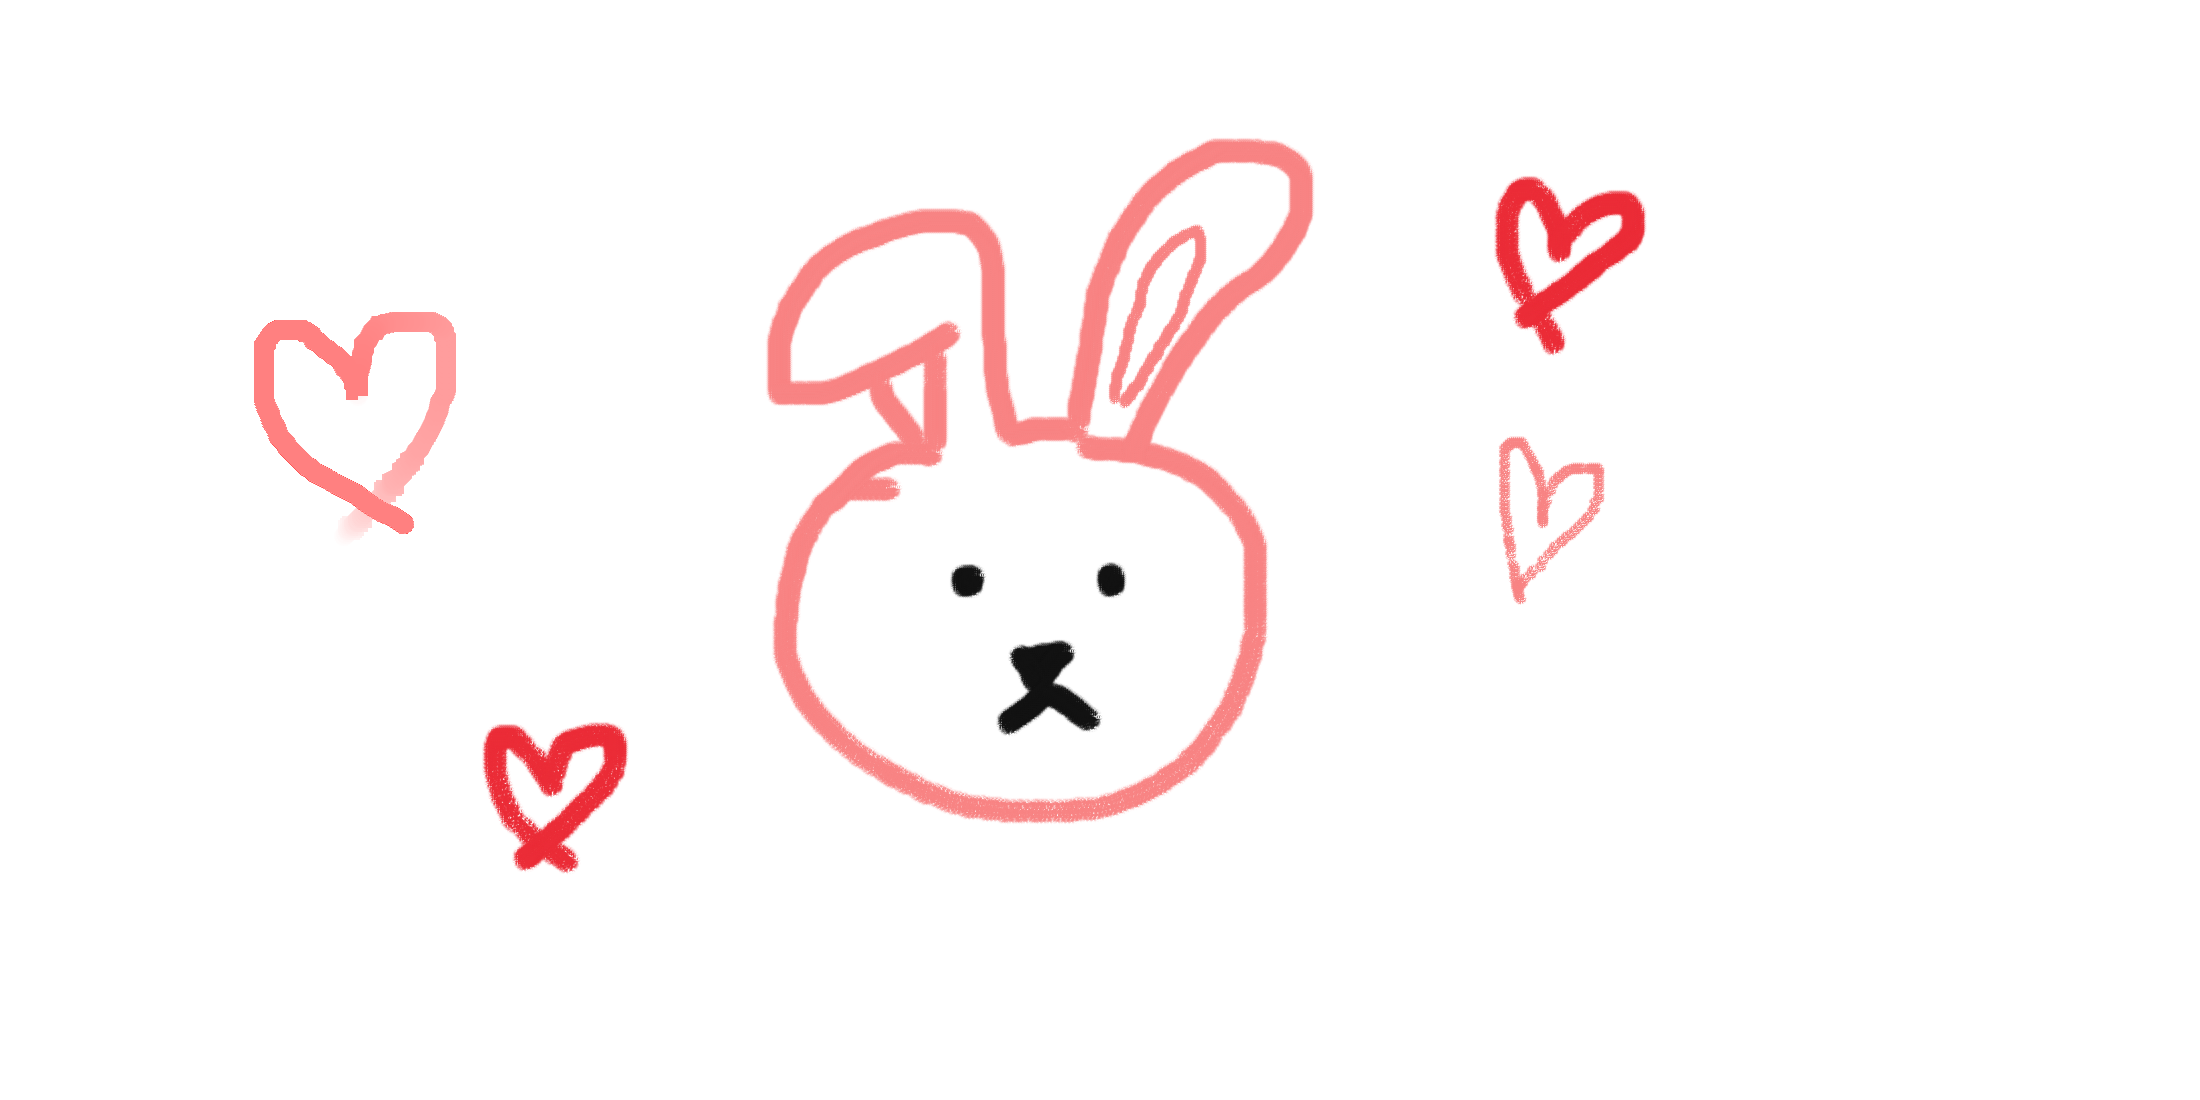
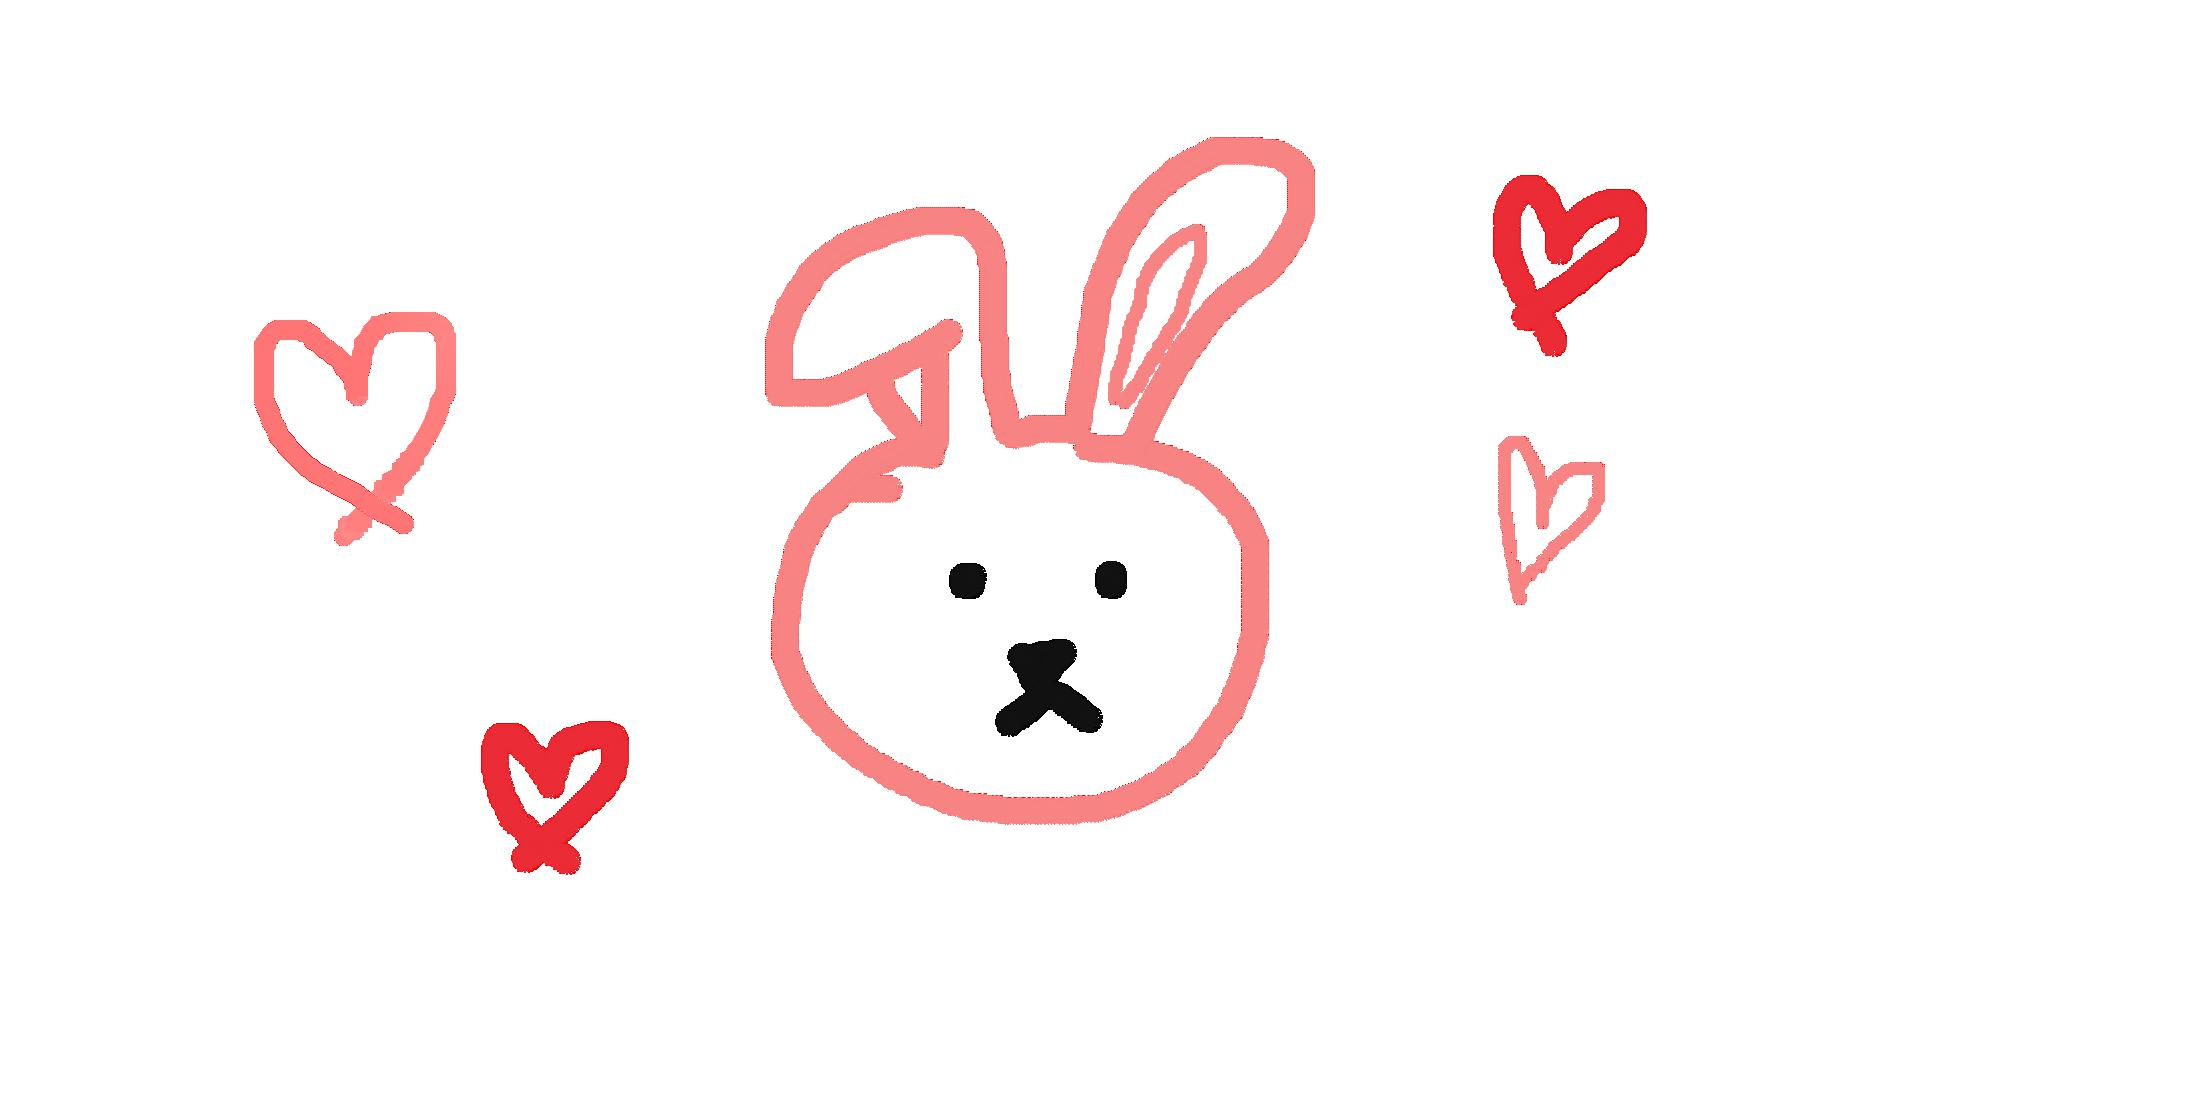
[S07P22D203-518|AI] response 이미지 배경변경
Former-commit-id: 92ce42c1fb31b6f8c173a87386176a0734ea1602 [formerly 9a2d7cd93cb60b348e8e22acebd8fd8d2026c42c]
Former-commit-id: 7134585f51c123df21668a9c18377859b570da78

diff --git a/AI/detection/server.py b/AI/detection/server.py
@@ -29,8 +29,18 @@ def from_image_to_bytes(img):
 @app.post("/tag")
 async def upload_photo(file: UploadFile):
     contents = await file.read()
-    with open("temp.jpg", "wb") as fp:
+    with open("temp.png", "wb") as fp:
         fp.write(contents)
+    im = Image.open('./temp.png')
+    x, y = im.size
+    px = im.load()
+
+    for i in range(0, x):
+        for j in range(0, y):
+            if px[i, j][-1] == 0:
+                px[i, j] = (255, 255, 255, 255)
+    im = im.convert('RGB')
+    im.save('temp.jpg')
     result = test.faster_rcnn("temp.jpg")
 
     return result

diff --git a/AI/detection/test.py b/AI/detection/test.py
@@ -25,9 +25,8 @@ def faster_rcnn(image):
     model.to(device)
     saved_checkpoint = torch.load("Epoch33.pth", map_location=device)
     model.load_state_dict(saved_checkpoint, strict=False)  # 훈련파일
-    # image_path = "/home/jupyter-j7d203/drawing_dataset/97511345-행복한-가족의-어린이-사진-벡터-일러스트-레이-션.jpg"
 
-    test_image = Image.open(image).convert("RGB")
+    test_image = Image.open(image)
     test_image = np.array(test_image)
 
     to_tensor = torchvision.transforms.ToTensor()
